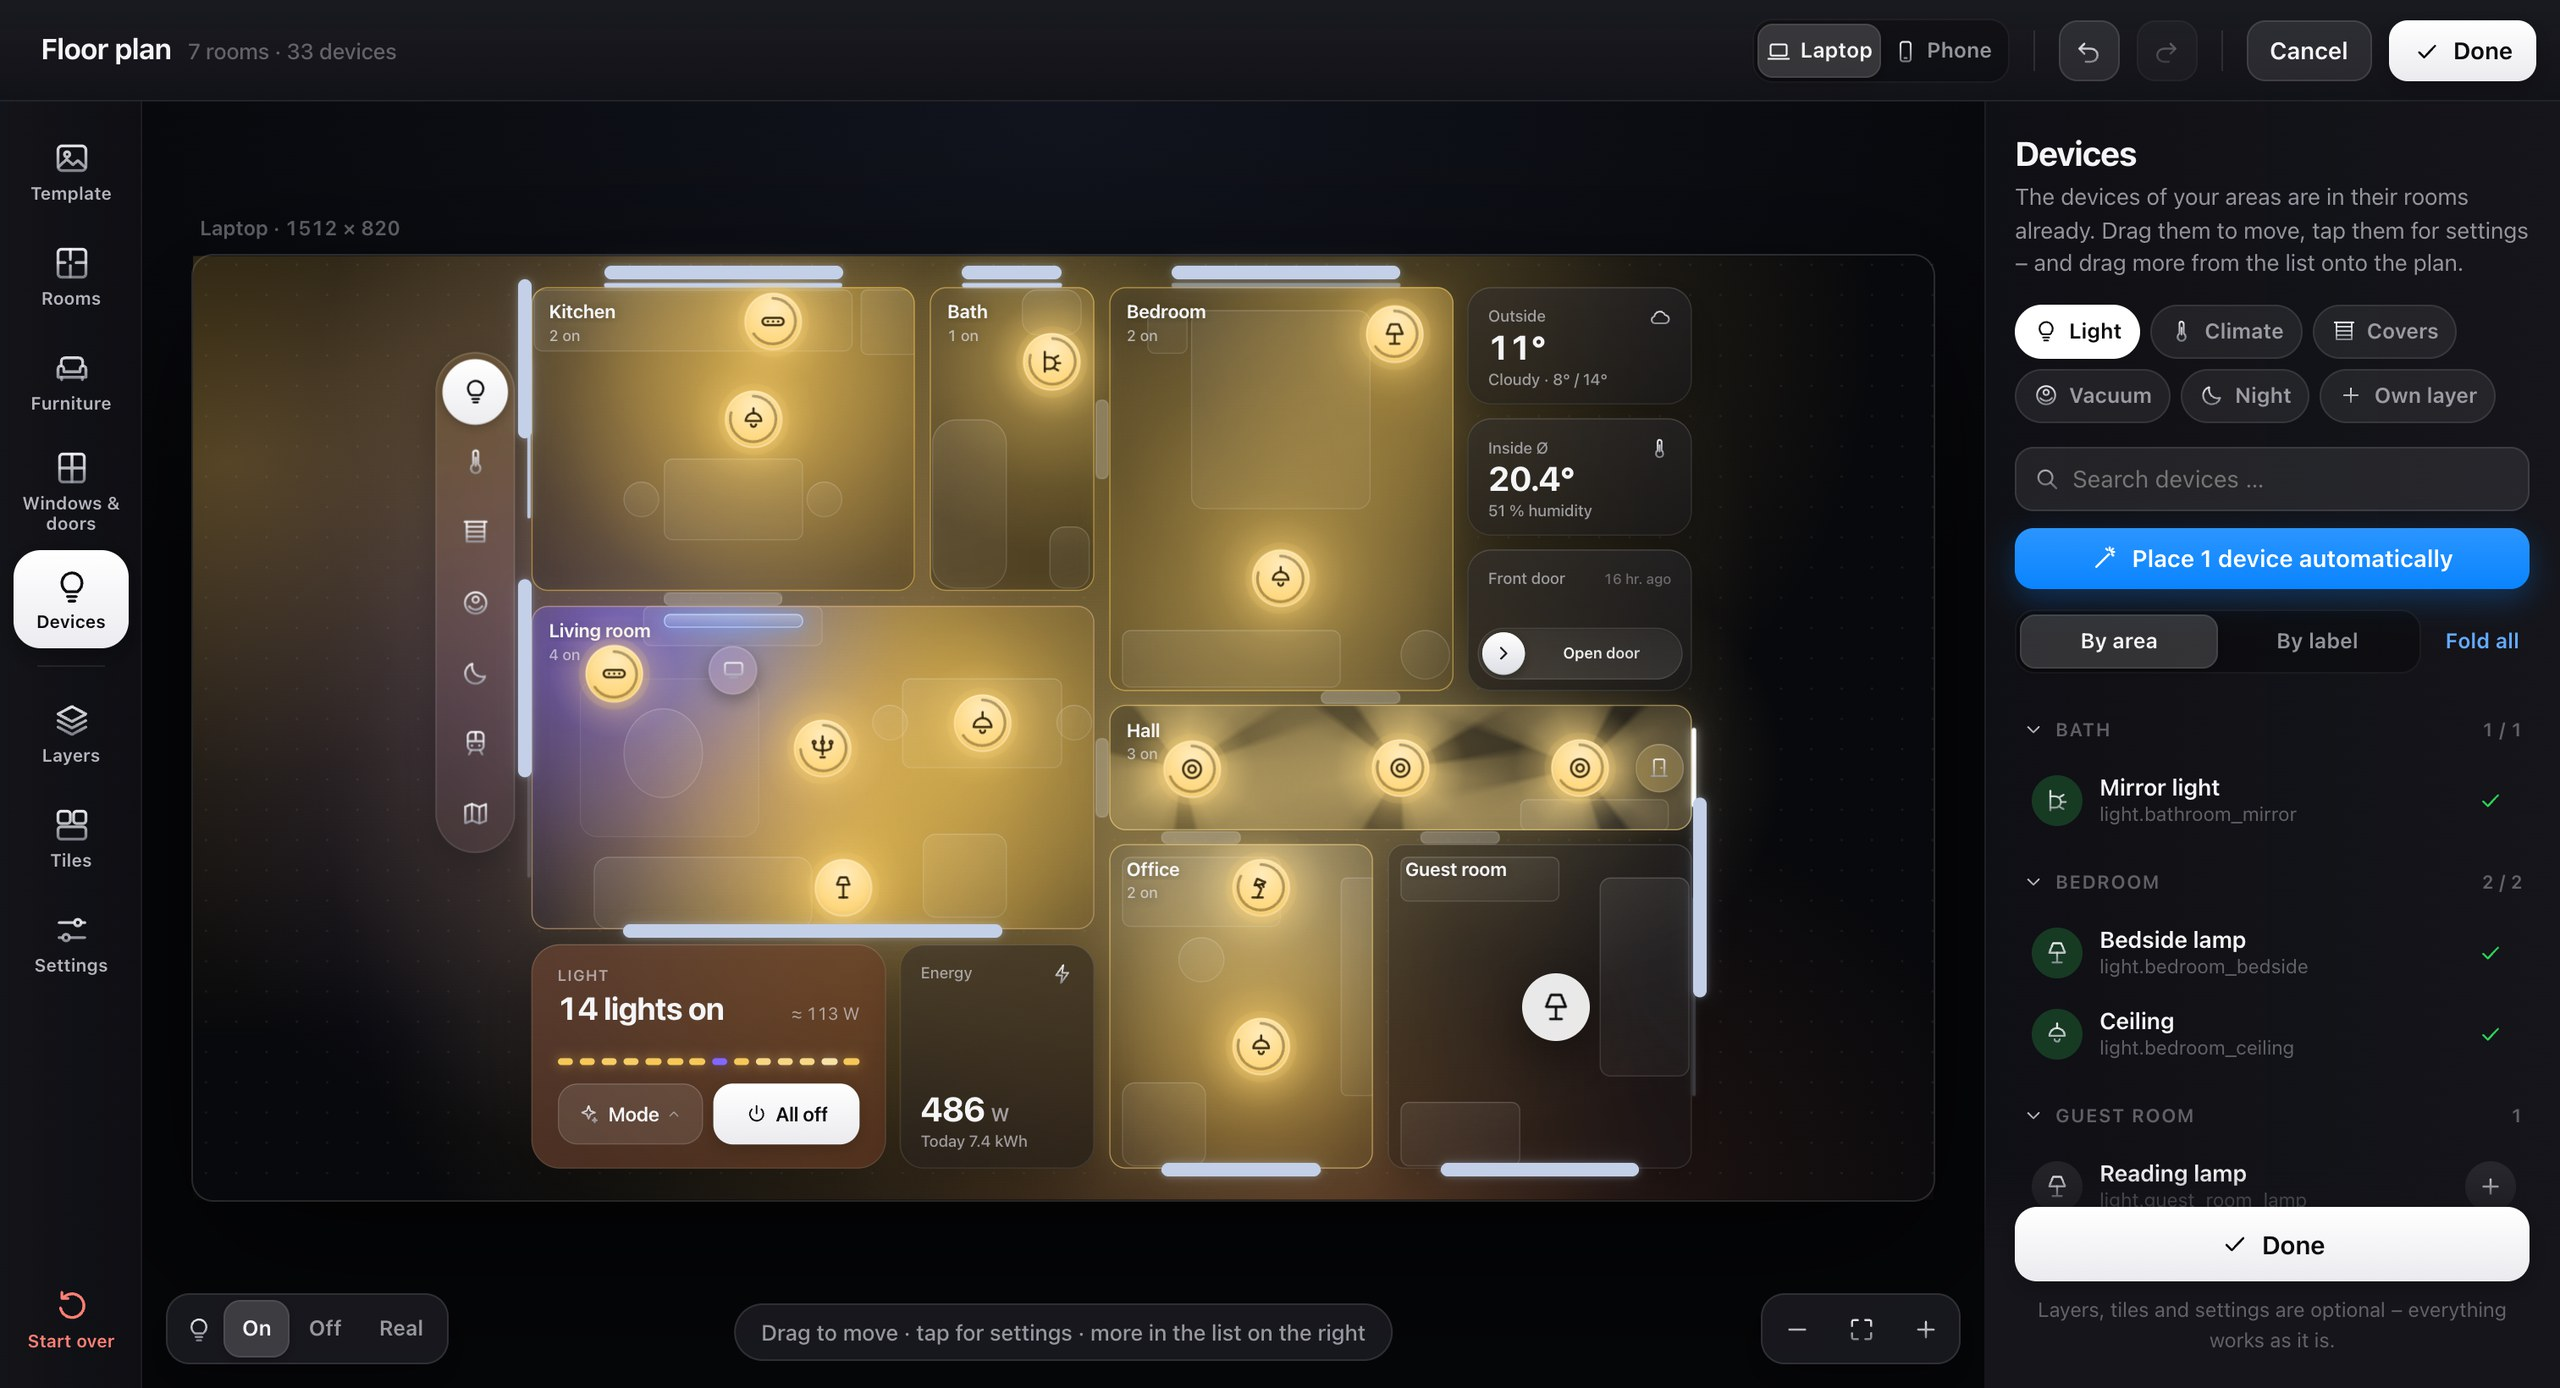
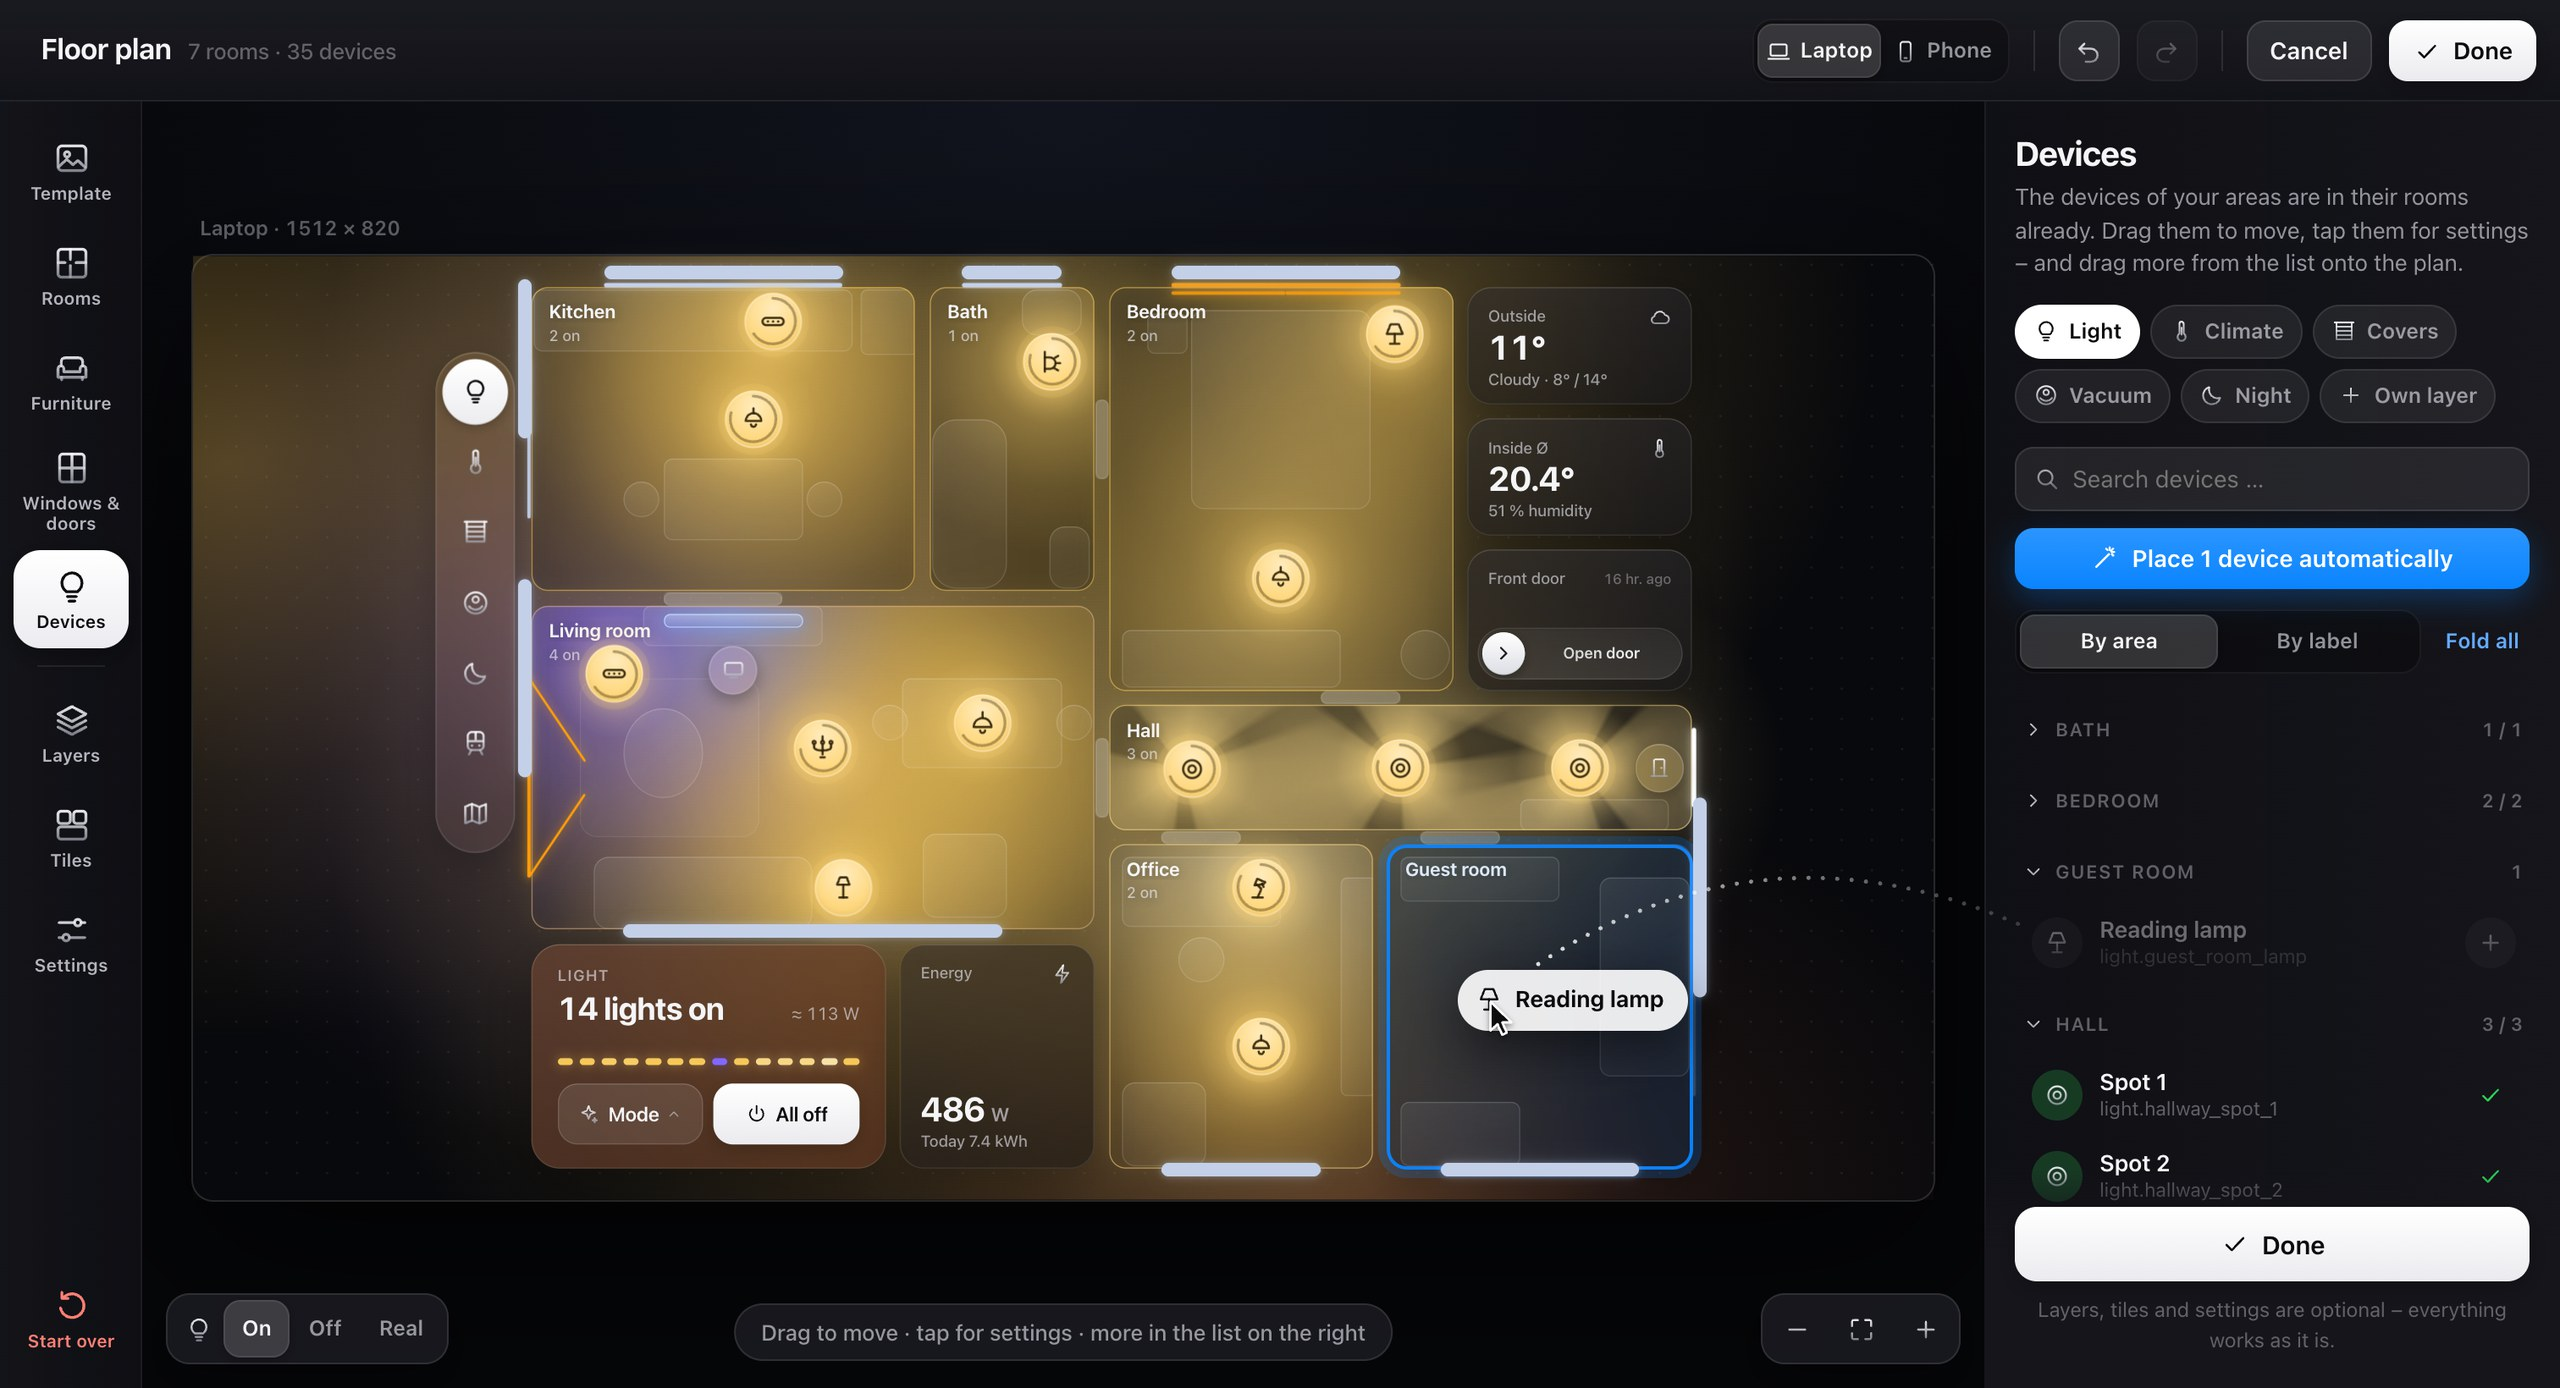
README: first way reads "add a photo, draw the rooms or let them be found", the devices picture shows the drag

diff --git a/README.md b/README.md
@@ -61,16 +61,16 @@ You never write coordinates. Pick whatever you have at hand:
 
 | You have … | Do this |
 |---|---|
-| 📷 **A picture** of your floor plan (listing, photo, screenshot, hand sketch) | Load it in the editor, measure one wall, click **Find rooms automatically**. Rooms and doorways appear on their own. |
+| 📷 **A picture** of your floor plan (listing, photo, screenshot, hand sketch) | Add it in the editor and measure one wall. Then draw the rooms on it yourself, or click **Find rooms automatically** and rooms and doorways appear on their own. |
 | ✨ **A hard-to-read picture** (taken at an angle, busy, hand-drawn) | Send it to **Claude** with the [floor plan skill](docs/claude-skill.md). You get a file back and import it with one click. |
 | 🏠 **Your Home Assistant areas** | One click creates a room for each area. Drag them where they are – the devices follow by themselves. |
 | ✏ **Nothing but your memory** | Drag rectangles. Edges snap together, so the rooms line up like walls. |
 
-<img src="docs/images/editor-start-2x.jpg" alt="The editor on an empty card: three ways to start – trace a photo or sketch, import a floor plan file, or start from your Home Assistant areas" width="100%">
+<img src="docs/images/editor-start-2x.jpg" alt="The editor on an empty card: three ways to start – add a photo or sketch and draw the rooms on it or let them be found, import a floor plan file, or start from your Home Assistant areas" width="100%">
 
-<p align="center"><sub>Three ways to start: trace a picture, import a file, or begin with your areas.</sub></p>
+<p align="center"><sub>Three ways to start: add a picture and draw the rooms or let them be found, import a file, or begin with your areas.</sub></p>
 
-<img src="docs/images/editor-devices-2x.jpg" alt="Devices step: a lamp dragged from the list on the right into the guest room" width="49.6%"> <img src="docs/images/editor-layers-2x.jpg" alt="Layers step: the layer bar of the card highlighted, each layer with its switch and order on the right" width="49.6%">
+<img src="docs/images/editor-devices-2x.jpg" alt="Devices step: the reading lamp is dragged from the list on the right into the guest room, which lights up blue as the drop target" width="49.6%"> <img src="docs/images/editor-layers-2x.jpg" alt="Layers step: the layer bar of the card highlighted, each layer with its switch and order on the right" width="49.6%">
 
 <p align="center"><sub><b>Devices</b> are dragged from the list onto the plan &nbsp;·&nbsp; <b>Layers</b> are switched on, sorted or made your own</sub></p>
 
